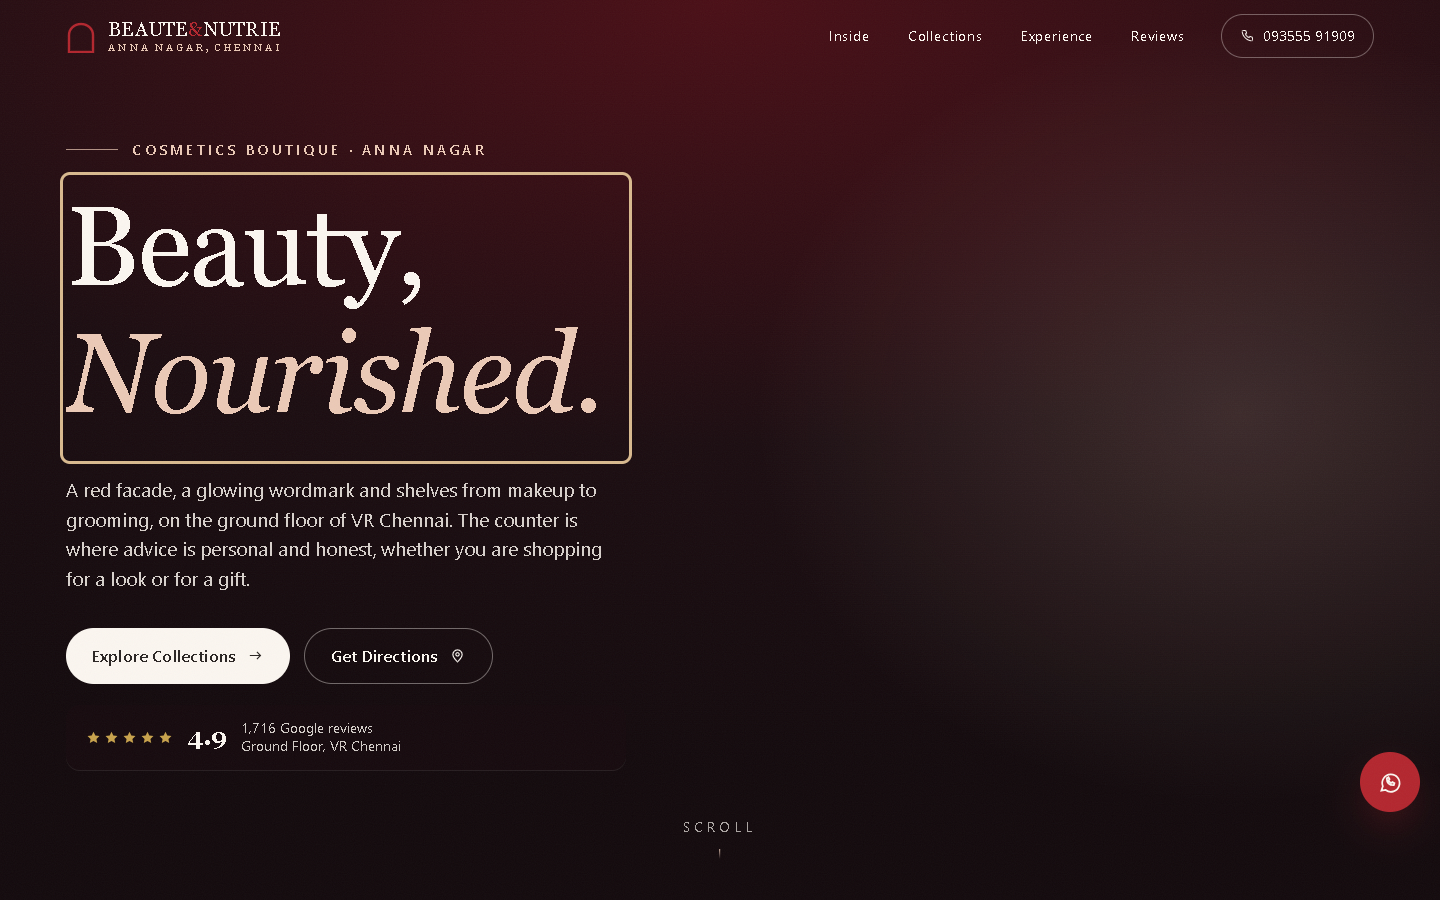
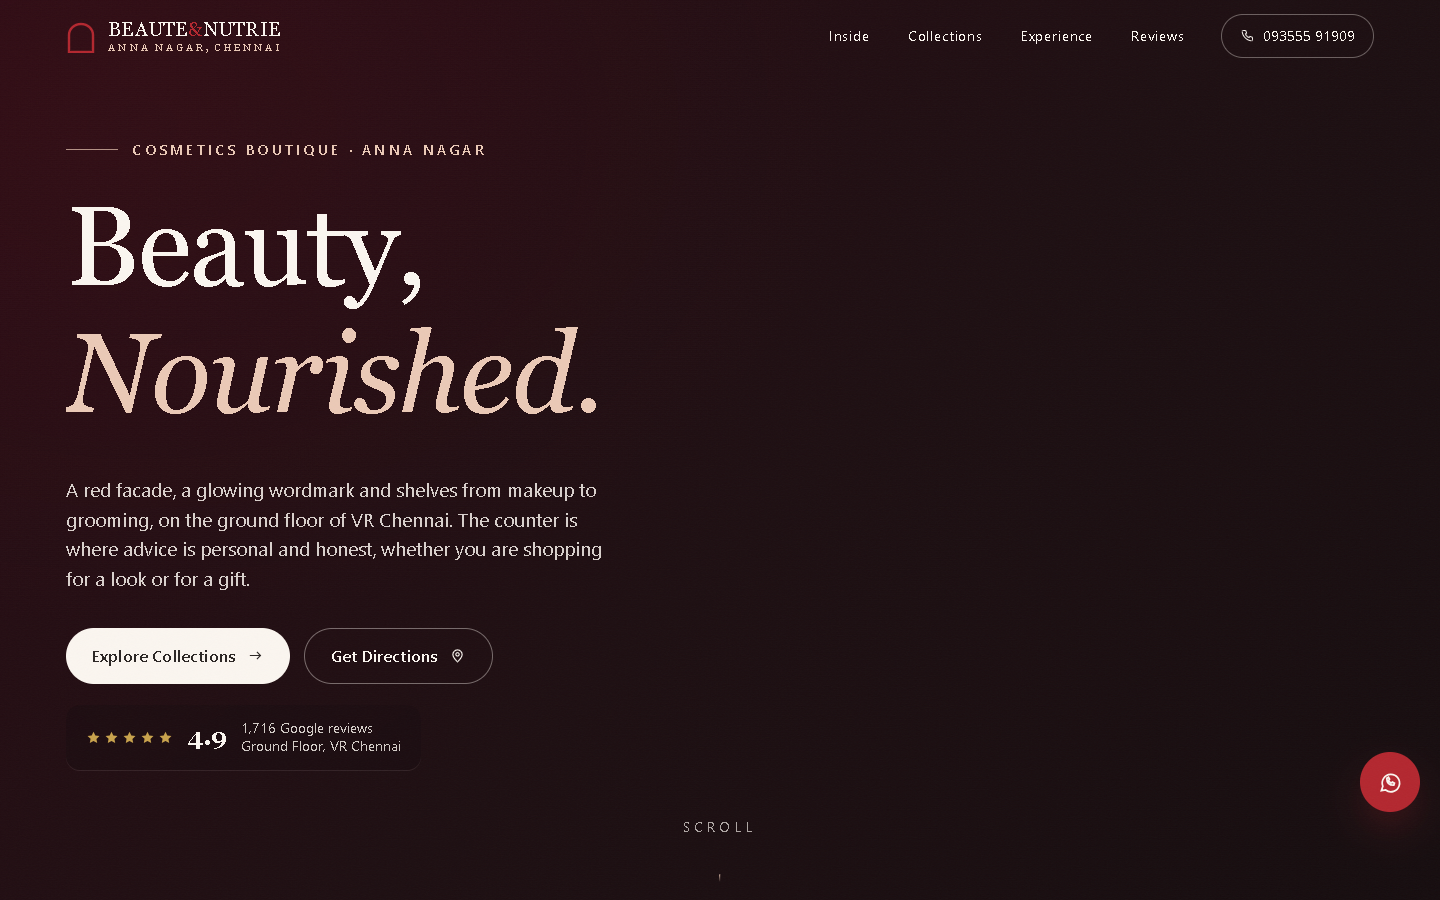
Upload cosmetics website files

Changed region(s): [[0.3438, 0.0, 0.9688, 0.5911], [0.0312, 0.1867, 0.4375, 0.2178], [0.0625, 0.4978, 0.4375, 0.5289]]

diff --git a/index.html b/index.html
@@ -170,10 +170,10 @@
    Base
    ============================================================ */
 *,*::before,*::after{box-sizing:border-box}
-html{-webkit-text-size-adjust:100%; background:var(--bg); overflow-x:clip}
+html{-webkit-text-size-adjust:100%; background:#140B0D; overflow-x:clip}
 html.lenis-on{height:auto}
 body{
-  margin:0; background:var(--bg); color:var(--ivory);
+  margin:0; background:#140B0D; color:var(--ivory);
   font-family:"DM Sans","Segoe UI",system-ui,sans-serif;
   font-size:var(--fs-body); line-height:var(--lh-body);
   font-synthesis-weight:none; -webkit-font-smoothing:antialiased;
@@ -428,8 +428,8 @@ html.bn-js.bn-returning #heroBadge{
   padding:calc(96px + var(--margin)) var(--margin) clamp(40px,7vh,84px)}
 #gl{position:absolute; inset:0; z-index:1; width:100%; height:100%; display:block; pointer-events:none}
 .hero-bg{position:absolute; inset:0; z-index:0; background:
-  radial-gradient(48% 62% at 86% 46%, rgba(235,201,182,.16), transparent 70%),
-  radial-gradient(115% 85% at 50% 0%, var(--wine-deep) 0%, var(--bg) 58%, #12090C 100%)}
+  radial-gradient(70% 80% at 10% 14%, rgba(110,21,32,.12), transparent 70%),
+  linear-gradient(135deg, #2A0A12 0%, #1C0D10 55%, #140B0D 100%)}
 .hero-copy{position:relative; z-index:2; max-width:min(760px,86vw); transform:translateY(-5vh)}
 .hero h1{font-size:clamp(3.2rem,8vw,7rem); line-height:var(--lh-hero); letter-spacing:-.015em; font-weight:500}
 .hero h1 em{font-style:italic; color:var(--peach)}
@@ -448,7 +448,7 @@ html.bn-js.bn-returning #heroBadge{
 .btn-ghost:hover{border-color:var(--ivory); background:rgba(251,246,240,.08)}
 .hero-badge{position:relative; z-index:3; align-self:flex-start; margin:22px 0 0;
   display:flex; align-items:center; gap:14px; padding:14px 20px; border-radius:var(--radius);
-  box-sizing:border-box; max-width:100%;
+  box-sizing:border-box; width:fit-content; max-width:100%;
   background:rgba(24,10,13,.5); backdrop-filter:blur(10px); -webkit-backdrop-filter:blur(10px);
   box-shadow:0 1px 0 rgba(251,246,240,.09)}
 .hero-badge .stars{display:inline-flex; gap:3px; color:var(--gold)}
@@ -1672,7 +1672,8 @@ html.bn-js.bn-returning #heroBadge{
   }
 
   function initGL() {
-    renderer = new THREE_.WebGLRenderer({ canvas: canvas, alpha: true, antialias: true });
+    renderer = new THREE_.WebGLRenderer({ canvas: canvas, alpha: true, antialias: true, premultipliedAlpha: false });
+    renderer.setClearColor(0x000000, 0);
     renderer.setPixelRatio(Math.min(window.devicePixelRatio || 1, 1.5));
     renderer.outputEncoding = THREE_.sRGBEncoding;
     renderer.setSize(window.innerWidth, window.innerHeight, false);
@@ -1764,8 +1765,8 @@ html.bn-js.bn-returning #heroBadge{
     dg.addColorStop(1, 'rgba(251,246,240,0)');
     dctx.fillStyle = dg; dctx.fillRect(0, 0, 32, 32);
     particles = new THREE_.Points(pGeo, new THREE_.PointsMaterial({
-      color: 0xEBC9B6, size: 0.13, map: new THREE_.CanvasTexture(dotC),
-      transparent: true, opacity: 0, depthWrite: false, blending: THREE_.AdditiveBlending
+      color: 0xEBC9B6, size: 0.018, map: new THREE_.CanvasTexture(dotC),
+      transparent: true, opacity: 0, depthWrite: false, blending: THREE_.NormalBlending
     }));
     scene.add(particles);
 
